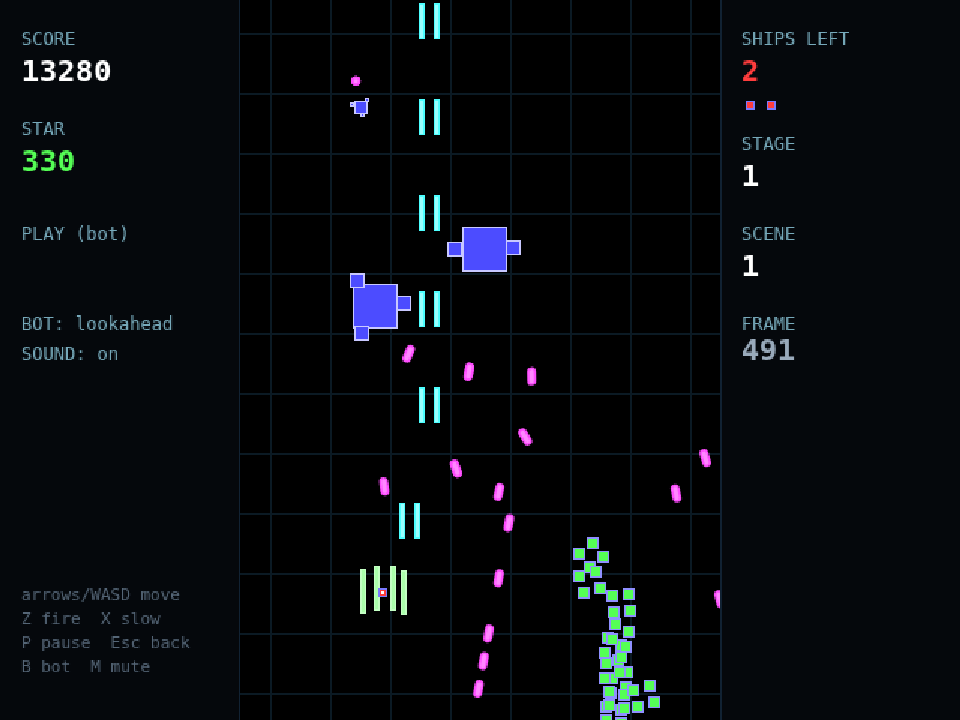
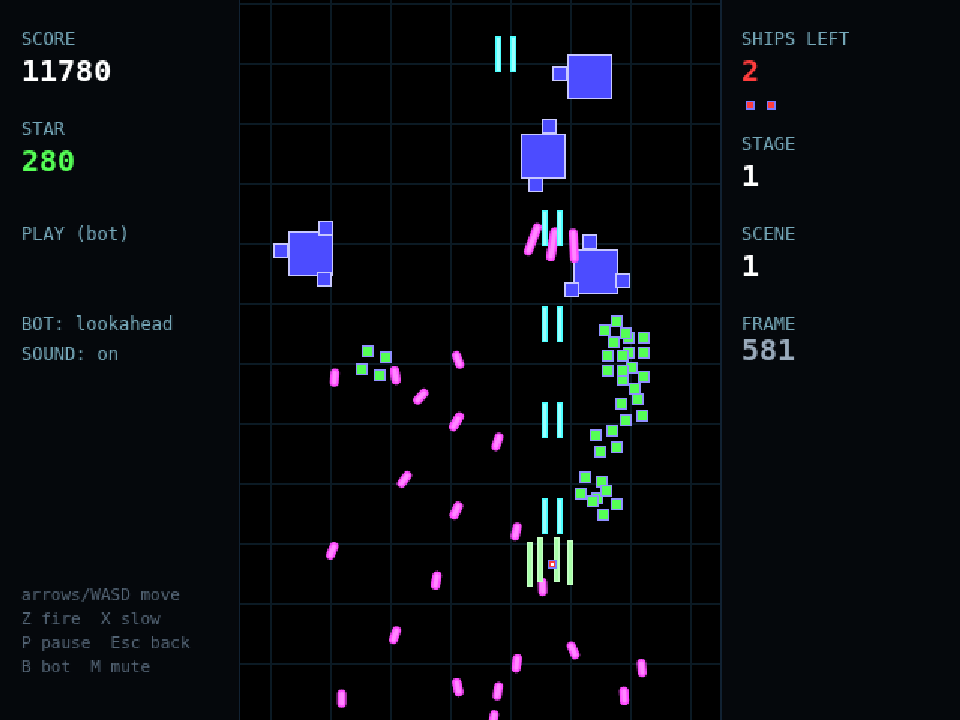
G3 report, plan status; the sound check in test:browser
Claude-Session: https://claude.ai/code/session_01HzE9XoQVpA2v5ZfNetEpHG

diff --git a/web/play.js b/web/play.js
@@ -287,6 +287,8 @@ window.noiz = {
         };
     },
     lastTape: () => app.lastTape,
+    sound: () => ({ decoded: sound.buffers.filter(Boolean).length, context: sound.ctx?.state ?? null,
+        music: sound.music.src.split('/').pop(), musicPaused: sound.music.paused, muted: sound.muted }),
     startStage: (i, o) => startStage(i, o),
     startReplay: (tape, name) => startReplay(tape, name),
     setSpeed: (s) => { app.speed = s; },

diff --git a/docs/g3-report.md b/docs/g3-report.md
@@ -1,0 +1,149 @@
+# G3 report — Noiz2sa in the browser
+
+Slice G3 of `docs/noiz2sa-plan.md`, 2026-10-03.
+
+## Verdict
+
+**`play.html` plays Noiz2sa in the browser with the same engine modules as Node.** It has stage select (stages
+1–10 and ENDLESS, HARD, EXTREME, INSANE), keyboard play as in the original, simple canvas drawing in the game's
+colours, the game's own sounds and music, a bot toggle, and tape replay and recording. In headless Chromium,
+**six tapes replayed in the page end on exactly the state line Node prints**, including two full-stage
+`lookahead` clears and the 30,000-frame ENDLESS tape. A scripted keyboard game, the bot toggle, pause, Esc and
+the recorded tape all pass (`npm run test:browser`, below). `npm test` stays green.
+
+## How to run it
+
+```
+cd ~/CC/bulletml-dodge
+python3 -m http.server 8765        # any static server, rooted at the repository
+# open http://127.0.0.1:8765/play.html
+npm run test:browser               # the headless check; serves the repo itself on a free port
+```
+
+- **Stage select:** arrows choose a stage, Z or Enter starts it. You can also click a stage.
+- **In game:** arrows, WASD or the keypad move the ship. Z fires, X slows, P pauses, Esc returns to stage select.
+  B toggles the bot and M toggles sound.
+- **Below the screen:** the bot policy, a tape list and a file loader with replay speed (1–16×), "Download last
+  tape", a seed field (blank = random), and mute.
+- Nothing is deployed. No GitHub Pages: a first public deploy is the user's decision.
+
+## What was built
+
+- **`play.html` + `web/`.**
+  - `web/play.js`: the modes, the keyboard, the fixed 16 ms step (`INTERVAL_BASE`) decoupled from
+    `requestAnimationFrame`, at most 8 steps per display frame. A machine too slow to keep up slows the game
+    down instead of spiralling.
+  - `web/draw.js`: the drawing. `web/palette.js`: the game's 256-colour table, from `clrtbl.c`.
+  - `web/sound.js`: the sounds.
+  - `web/xmldom-shim.js`: the import-map target, so `src/bulletml.js` parses with the browser's `DOMParser`
+    with no change for Node.
+- **The pattern order over HTTP.** `bin/build-web-index.mjs` (`npm run web-index`) writes
+  `web/index/patterns.json`, sorted by strcmp as `patterns-node.js` sorts. It also writes `web/index/tapes.json`.
+  `src/game/patterns-web.js` loads them. `test:browser` fails on a stale index (`--check`).
+- **Shared modules.**
+  - `src/game/policies.js`: `makePolicy(name)` for `lookahead`, `chase`, `random` and `fire-stay`, moved out of
+    `bin/play-game.mjs` unchanged.
+  - `src/game/tape.js`: `tapeInputs`, `makeTape` and `replayTape`.
+  - `bin/play-game.mjs` now imports both.
+- **Engine: two sound-only events.**
+  - `['shot']` fires when a shot enters the pool (`shot.c` plays chunk 0 only then).
+  - `['damage', type]` is a hit that does not kill (chunk 1).
+  - No state changed: the state lines are identical (below).
+- **Sound mapping (from the C's `playChunk` calls).**
+
+  | Event | Sound |
+  |---|---|
+  | shot | `shot.wav` |
+  | damage | `hit.wav` |
+  | kill | `foedst.wav`, or `bossdst.wav` for the boss |
+  | ship hit | `shipdst.wav` |
+  | star | `bonus.wav` |
+  | extend | `extend.wav` |
+
+  - Each effect plays on its own channel, so a replay cuts the previous one, as `Mix_PlayChannel(idx)` does.
+  - Music: stage index s → `stg{s%5+1}.ogg`. ENDLESS, HARD and EXTREME play `stg0.ogg`; INSANE plays
+    `stg00.ogg` (`noiz2sa.c initGame`). Stage clear and game over fade the music out over 1,280 ms.
+  - Mute persists in `localStorage`.
+- **Vendored sounds:** `web/sounds/` holds the 7 WAVs (440 KB) and 7 OGGs (8.3 MB) from the official 0.52 zip,
+  unchanged, with the BSD licence text. `NOTICE.md` and the README say so.
+- **Drawing (simple, ⚖):**
+  - Enemies are boxes sized 30/40/56/96, growing in over 16 frames, with their shield as orbiting small boxes and
+    a hit flash.
+  - Bullets are thick lines along their swept segment. Shots are twin bars. Stars are four turning boxes.
+  - The ship is drawn with its drums, blinks while invincible, and shows a 2 px hit point.
+  - Explosion rings are a page-side effect only.
+  - Panels show score, star chain, ships left, stage, scene (BOSS on the boss scene), frame, mode, bot and
+    sound. STAGE CLEAR, GAME OVER and PAUSE are shown as messages.
+- **Recording.**
+  - Every game played in the page is kept as a tape when it returns to the title or on Esc.
+  - It has the same fields as `play-game.mjs` writes (`game, stage, seed, endlessSeed, frames, inputs`), plus
+    `player` (`human`, or `human+<policy>` if the bot played any of it).
+  - A human game's `seed` and `endlessSeed` are random unless the seed field is set. With the field set,
+    endlessSeed = 7919 × seed, the G2 convention.
+- **Bot.** It plays only while the game is in progress. The stage-clear and game-over screens always take the
+  keyboard, because a policy that always fires would hold them for the full 900 frames.
+
+## Acceptance — measured
+
+1. **Browser = Node** (`npm run test:browser`). For each tape, Node's reference is the last line of
+   `bin/play-game.mjs --tape … --dump`, and the page's is `replayTape` in its own engine. They are equal on all 6:
+
+   | Tape | Frames | End | Page time |
+   |---|---:|---|---:|
+   | s01-lookahead-seed1 | 10,494 | stage clear → title, score 1,711,710 | 0.35–1.3 s |
+   | s10-lookahead-seed1 | 10,477 | stage clear → title, score 3,022,000 | 0.9–2.4 s |
+   | s11-lookahead-seed1 (ENDLESS) | 30,000 | in game, scene 29, score 3,909,250 | 1.2–3.4 s |
+   | s07-chase-seed2 | 5,690 | game over → title | 0.2–0.4 s |
+   | s13-random-seed1 (EXTREME) | 1,078 | game over → title | 0.1–0.4 s |
+   | s14-fire-stay-seed1 (INSANE) | 1,629 | game over → title | 0.1–0.3 s |
+
+2. **Scripted keyboard game** (stage 1, seed 42):
+   - Arrows move the stage-select cursor; Z starts the stage; the overlay hides.
+   - Holding Z + Left for 60 frames moves the ship left (40960 → …) and fires shots; Right moves it back (→ 78848).
+   - The panel's frame counter redraws.
+   - B hands control to `lookahead`. It moves the ship with no key held, kills enemies (score 0 → 10,500–12,650
+     by frame ~430), and the score panel redraws. B gives control back.
+   - P holds the frame for 400 ms; P again resumes.
+   - Esc returns to stage select.
+   - The recorded tape (seed 42) replays, **in the page and in Node** (downloaded through the button, then
+     `play-game.mjs --tape`), to exactly the state line the game was in when Esc was pressed.
+   - Sound: 7/7 effects decode, the audio context is running, and `stg1.ogg` plays for stage 1. This was
+     checked headless, so nobody heard it.
+   - The suite passed on 4 consecutive runs after one fix (below).
+3. **Screenshots** (`docs/g3-screens/`, checked by eye):
+   - `stage-select.png`
+   - `play.png`: the bot playing stage 1.
+   - `replay-mid-stage.png`: s05-lookahead at frame 6,000, paused, with a big enemy, bullets, stars and shots.
+   - `stage-clear.png`: s01-lookahead replayed to its STAGE CLEAR.
+
+   The first screenshots exposed three defects, all fixed and now asserted where testable:
+   - the stage-select overlay stayed on screen during play (CSS `display:flex` beat `hidden`);
+   - the boss scene read "SCENE 10" (`setBarrages` counts the scene up as it starts it, so the boss scene is 9);
+   - a long tape name ran into the field.
+4. **`npm test`** is green.
+
+**The policy move changed nothing.** Before the move, the existing code re-recorded all 126 smoke tapes
+(`chase`, `random`, `fire-stay` × 14 stages × 3 seeds) byte for byte. After the move, with the new events, it
+still does: 126/126. `npm run compare-native` against the wrap build: **137/137 identical** (47 s).
+
+⚠ **The committed `s01-lookahead-seed1` tape is NOT reproduced by re-recording, and that predates G3.** Running
+`play-game.mjs --stage 0 --seed 1 --endless-seed 7919 --policy lookahead` gives 10,506 frames (score 1,696,490).
+The committed tape has 10,494. **HEAD's own code (`344daf2`, in a throwaway worktree) gives the same 10,506-frame
+tape byte for byte as the refactored code.** So the refactor is exact, and the committed tape came from other
+settings or an intermediate version during G2. The tape is still valid: it replays, and it matches the native
+build. Only its recipe is unrecorded. The other nine `lookahead` re-records were not run (~3 min CPU each).
+
+## Not done / open
+
+- **The bot's speed in real time.** `lookahead` costs about 17 ms of CPU per frame on average in Node, against a
+  16 ms frame. In the page, early in stage 1, it ran at **49–63 frames/s** (the game's rate is 62.5). In busy
+  scenes it will run below full speed: the game slows down rather than skipping. G4's bot needs a time budget or
+  a worker.
+- **Every stage played by a human:** only stage 1 was played by the keyboard script. The other stages and modes
+  start the same way and were exercised through replays; no human played them through.
+- **The look:** simple shapes, per the ruling. Missing from the original look: blur trails, the line-drawn
+  letters, the scrolling background, fragments.
+- **Endless modes on stage select:** they use the stage LCG seed `endlessSeed`, random per game, as the C's
+  `SDL_GetTicks` does.
+- **The report-back:** no handshake message reached this session, so there was no `from` address to reply to.
+  This file is the report.

diff --git a/docs/noiz2sa-plan.md b/docs/noiz2sa-plan.md
@@ -70,6 +70,14 @@ stays reproducible.
     re-run is the user's call.
   - Risks 3–5 were checked and show no difference.
 
+- **G3 DONE 2026-10-03** (report: `docs/g3-report.md`). `play.html`: stage select (1–10 + 4 endless modes),
+  keyboard play as in the original, simple canvas drawing, the game's sounds and music (vendored, BSD), a bot
+  toggle (the test policies, now `src/game/policies.js`), tape replay and recording (the play-game format + `seed`).
+  `npm run test:browser`: page = Node on 6 tapes (2 full clears, the 30,000-frame ENDLESS); keyboard, bot, pause,
+  Esc and the recorded tape round-trip in page and Node. Smoke tapes re-record 126/126; wrap 137/137.
+  ⚠ The committed s01-lookahead tape's recipe is unrecorded (HEAD re-records 10,506 frames, not 10,494).
+  ⚠ `lookahead` ≈ 17 ms CPU per frame: 49–63 fps in the page in stage 1, slower in busy scenes — G4 needs a budget.
+
 ### Where G2 may find differences (known places the port is not literally the C)
 
 *(As written before G2. The outcome of each is in the G2 bullet above and in `docs/g2-report.md`.)*
